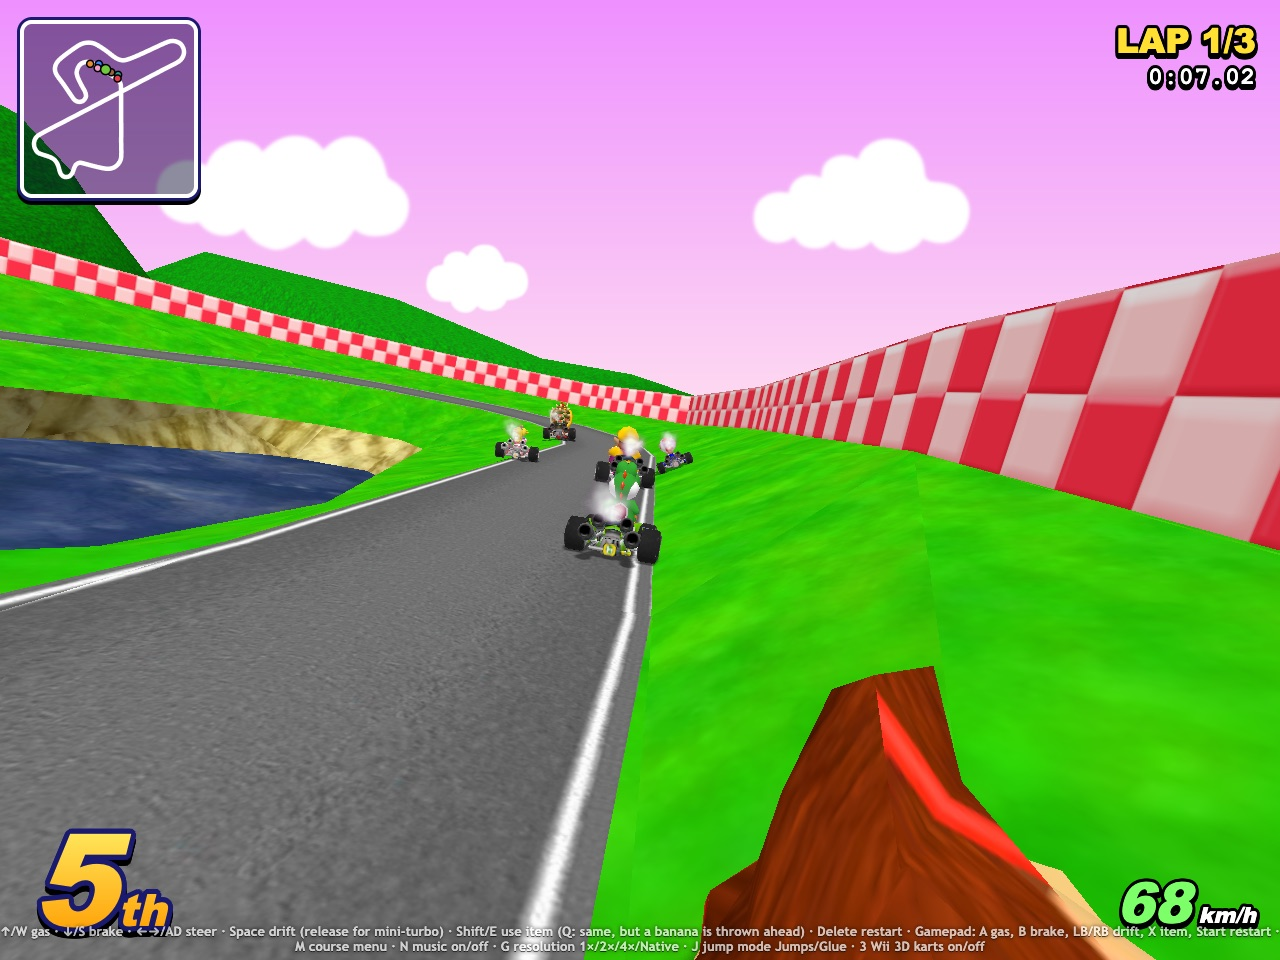
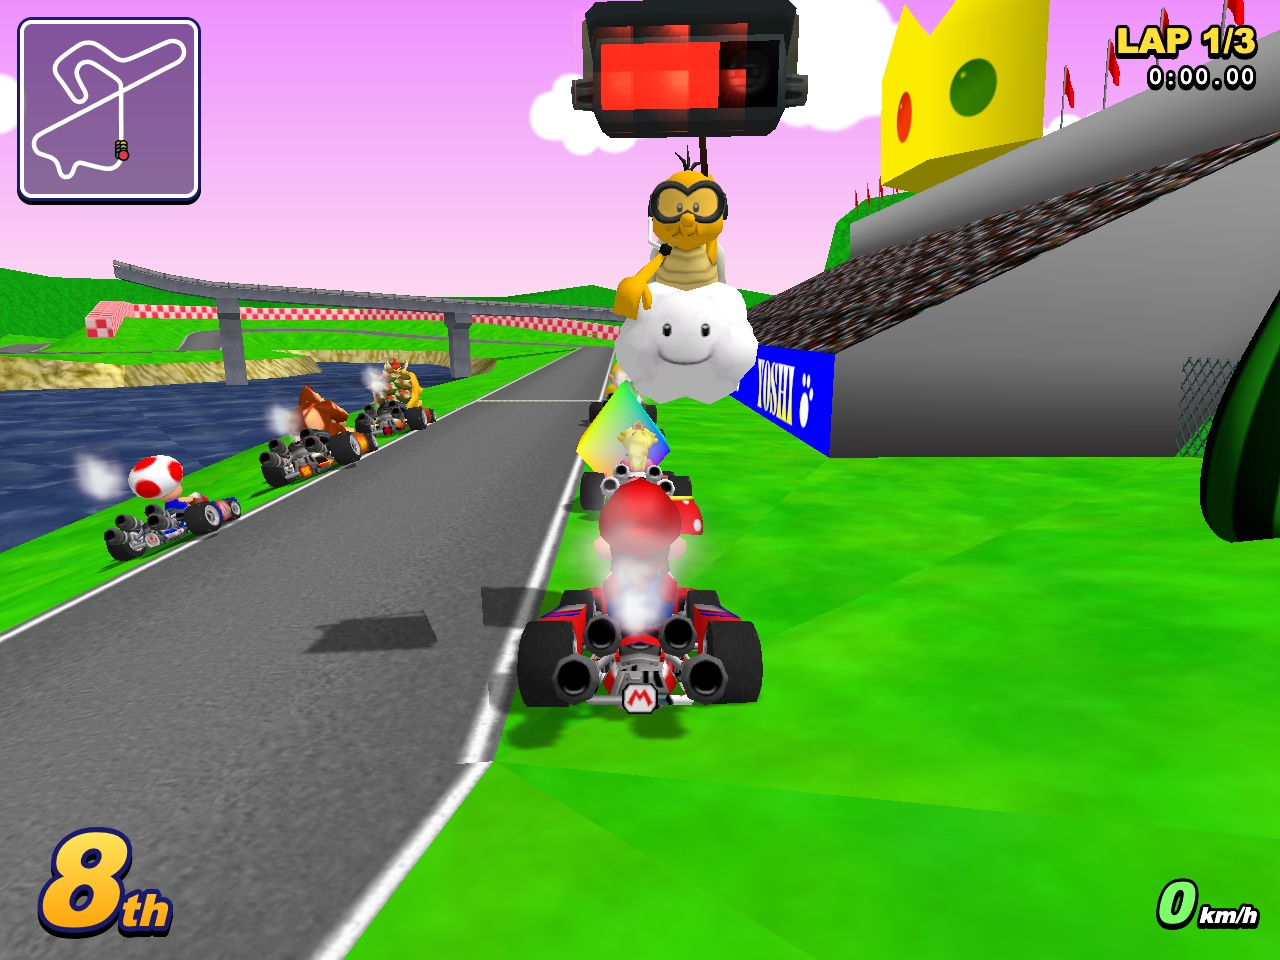
Website + README: Wii 3D karts section with 3D title screen, racing and finish fly-over screenshots

diff --git a/website/public/index.html b/website/public/index.html
@@ -31,7 +31,7 @@
 <link rel="canonical" href="https://mk64js.gokart.games/">
 <link rel="sitemap" type="application/xml" href="/sitemap.xml">
 <script type="application/ld+json">
-{"@context":"https://schema.org","@type":"VideoGame","name":"MarioKart64JS","url":"https://mk64js.gokart.games/","description":"A fan-made Mario Kart 64 rebuilt in JavaScript with Three.js, no emulator. All 16 courses, the original sequenced music, items and drifting, and online races for up to 4 players. Play in your browser or download it for macOS, Windows, Linux and Raspberry Pi.","genre":["Racing","Kart racing"],"gamePlatform":["Web browser","macOS","Windows","Linux","Raspberry Pi"],"operatingSystem":"Web browser, macOS, Windows, Linux, Raspberry Pi OS","applicationCategory":"Game","playMode":["SinglePlayer","MultiPlayer"],"numberOfPlayers":{"@type":"QuantitativeValue","minValue":1,"maxValue":4},"isAccessibleForFree":true,"offers":{"@type":"Offer","price":"0","priceCurrency":"USD","url":"https://mk64js.gokart.games/play"},"image":"https://mk64js.gokart.games/img/title.jpg","screenshot":["https://mk64js.gokart.games/img/title.jpg","https://mk64js.gokart.games/img/course-select.jpg","https://mk64js.gokart.games/img/character-select.jpg","https://mk64js.gokart.games/img/race-mario.jpg","https://mk64js.gokart.games/img/race-royal.jpg","https://mk64js.gokart.games/img/race-koopa.jpg","https://mk64js.gokart.games/img/race-bowser.jpg","https://mk64js.gokart.games/img/race-rainbow.jpg","https://mk64js.gokart.games/img/title3d.jpg","https://mk64js.gokart.games/img/race3d-mario.jpg"],"codeRepository":"https://github.com/AgentiLoop/MarioKart64JS","author":{"@type":"Organization","name":"AgentiLoop","url":"https://github.com/AgentiLoop"},"potentialAction":{"@type":"PlayAction","target":"https://mk64js.gokart.games/play"}}
+{"@context":"https://schema.org","@type":"VideoGame","name":"MarioKart64JS","url":"https://mk64js.gokart.games/","description":"A fan-made Mario Kart 64 rebuilt in JavaScript with Three.js, no emulator. All 16 courses, the original sequenced music, items and drifting, and online races for up to 4 players. Play in your browser or download it for macOS, Windows, Linux and Raspberry Pi.","genre":["Racing","Kart racing"],"gamePlatform":["Web browser","macOS","Windows","Linux","Raspberry Pi"],"operatingSystem":"Web browser, macOS, Windows, Linux, Raspberry Pi OS","applicationCategory":"Game","playMode":["SinglePlayer","MultiPlayer"],"numberOfPlayers":{"@type":"QuantitativeValue","minValue":1,"maxValue":4},"isAccessibleForFree":true,"offers":{"@type":"Offer","price":"0","priceCurrency":"USD","url":"https://mk64js.gokart.games/play"},"image":"https://mk64js.gokart.games/img/title.jpg","screenshot":["https://mk64js.gokart.games/img/title.jpg","https://mk64js.gokart.games/img/course-select.jpg","https://mk64js.gokart.games/img/character-select.jpg","https://mk64js.gokart.games/img/race-mario.jpg","https://mk64js.gokart.games/img/race-royal.jpg","https://mk64js.gokart.games/img/race-koopa.jpg","https://mk64js.gokart.games/img/race-bowser.jpg","https://mk64js.gokart.games/img/race-rainbow.jpg","https://mk64js.gokart.games/img/title3d.jpg","https://mk64js.gokart.games/img/race3d-mario.jpg","https://mk64js.gokart.games/img/race3d-koopa.jpg","https://mk64js.gokart.games/img/fly3d-orbit-mario.jpg"],"codeRepository":"https://github.com/AgentiLoop/MarioKart64JS","author":{"@type":"Organization","name":"AgentiLoop","url":"https://github.com/AgentiLoop"},"potentialAction":{"@type":"PlayAction","target":"https://mk64js.gokart.games/play"}}
 </script>
 <link rel="stylesheet" href="/style.css">
 </head>
@@ -41,6 +41,7 @@
   <a class="brand" href="#top"><img src="/icon.png?v=2" alt="" width="32" height="32"><span>MarioKart64JS</span></a>
   <nav>
     <a href="#features">Features</a>
+    <a href="#wii3d">3D karts</a>
     <a href="#courses">Courses</a>
     <a href="#controls">Controls</a>
     <a href="#build">Build it</a>
@@ -96,21 +97,39 @@
     <article class="card"><h3>Kart physics</h3><p>Karts ride the course surface in the track's frame and can't pass through walls. Ramps and crests send you airborne with the decomp's gravity and drag.</p></article>
     <article class="card"><h3>Drift &amp; mini-turbo</h3><p>Hold Space to power-slide, release for a mini-turbo. Exhaust smoke puffs are ported from the original particle code.</p></article>
     <article class="card"><h3>Items &amp; roulette</h3><p>Item boxes spawn where the original game puts them. Hit one and the item window spins through shells, bananas, mushrooms and the rest, at the original timing.</p></article>
-    <article class="card"><h3>Wii 3D karts</h3><p>Press 3 for 3D Wii-style karts and Lakitu with real shadows, and a 3D title screen, in place of the N64 sprites. Press 3 again to go back.</p></article>
+    <article class="card"><h3>Wii 3D karts</h3><p>Press 3 for 3D Wii-style karts and Lakitu with real shadows, a 3D title screen and 3D finish fly-overs, in place of the N64 sprites. Press 3 again to go back.</p></article>
     <article class="card"><h3>240p or HD</h3><p>Play at an N64-style 240 lines, or 2&times;, 4&times; and native resolution with optional HD textures from the MK64 Reloaded pack. Press G to cycle.</p></article>
   </div>
 </section>
 
 <section class="wrap" id="wii3d">
-  <h2>Press 3 for Wii 3D karts</h2>
-  <p class="sub">An alternative look: hit <kbd>3</kbd> on the title screen for a 3D title scene with Wii-style karts, and again for the original art. In a race, <kbd>3</kbd> swaps every kart (each driver in their own Standard Kart) and the referee Lakitu for 3D models with real shadows. Your choice is remembered for the next race.</p>
+  <h2>Wii 3D karts: press 3</h2>
+  <p class="sub">An alternative look, and yes, you can dig it. Hit <kbd>3</kbd> on the title screen and the N64 title becomes a 3D scene: Mario, Wario, Bowser, Peach and Toad in Wii-style Standard Karts driving at you down a scrolling road. Hit <kbd>3</kbd> again for the original art. In a race, <kbd>3</kbd> swaps every kart (each driver in their own Standard Kart) and the referee Lakitu for 3D models with real shadows. Your choice is remembered for the next race.</p>
+  <h3 class="gh">The 3D title screen</h3>
   <div class="gallery">
-    <a href="/img/title3d.jpg"><img src="/img/title3d.jpg" alt="3D title screen with Wii karts" loading="lazy"><span>3D title screen</span></a>
-    <a href="/img/game-select3d.jpg"><img src="/img/game-select3d.jpg" alt="Game select over the 3D title scene" loading="lazy"><span>Game select</span></a>
+    <a href="/img/title3d.jpg"><img src="/img/title3d.jpg" alt="3D title screen with five Wii karts driving at the camera" loading="lazy"><span>3D title screen</span></a>
+    <a href="/img/game-select3d.jpg"><img src="/img/game-select3d.jpg" alt="Game select over the 3D title scene" loading="lazy"><span>Game select over the 3D scene</span></a>
+  </div>
+  <h3 class="gh">Racing in 3D</h3>
+  <div class="gallery">
     <a href="/img/race3d-mario.jpg"><img src="/img/race3d-mario.jpg" alt="Driving a 3D Wii kart on Mario Raceway" loading="lazy"><span>Mario Raceway</span></a>
     <a href="/img/race3d-luigi.jpg"><img src="/img/race3d-luigi.jpg" alt="Driving a 3D Wii kart on Luigi Raceway" loading="lazy"><span>Luigi Raceway</span></a>
+    <a href="/img/race3d-koopa.jpg"><img src="/img/race3d-koopa.jpg" alt="Driving a 3D Wii kart on Koopa Troopa Beach" loading="lazy"><span>Koopa Troopa Beach</span></a>
     <a href="/img/race3d-royal.jpg"><img src="/img/race3d-royal.jpg" alt="Driving a 3D Wii kart on Royal Raceway" loading="lazy"><span>Royal Raceway</span></a>
+    <a href="/img/race3d-sherbet.jpg"><img src="/img/race3d-sherbet.jpg" alt="Driving a 3D Wii kart on Sherbet Land" loading="lazy"><span>Sherbet Land</span></a>
+    <a href="/img/race3d-dk.jpg"><img src="/img/race3d-dk.jpg" alt="Driving a 3D Wii kart on D.K.'s Jungle Parkway" loading="lazy"><span>D.K.'s Jungle Parkway</span></a>
     <a href="/img/race3d-bowser.jpg"><img src="/img/race3d-bowser.jpg" alt="Driving a 3D Wii kart on Bowser's Castle" loading="lazy"><span>Bowser's Castle</span></a>
+    <a href="/img/race3d-rainbow.jpg"><img src="/img/race3d-rainbow.jpg" alt="Driving a 3D Wii kart on Rainbow Road" loading="lazy"><span>Rainbow Road</span></a>
+  </div>
+  <h3 class="gh">Fly-overs after the finish</h3>
+  <p class="sub">Cross the line on the last lap and the camera takes over like the console's: it swings round the kart to its nose, cuts to roadside shots, a high crane and a low tail shot. With the Wii karts on, your 3D kart is the star of every one.</p>
+  <div class="gallery">
+    <a href="/img/fly3d-orbit-mario.jpg"><img src="/img/fly3d-orbit-mario.jpg" alt="Finish fly-over: the camera orbiting a 3D Wii kart on Mario Raceway" loading="lazy"><span>Orbit round the kart, Mario Raceway</span></a>
+    <a href="/img/fly3d-nose-mario.jpg"><img src="/img/fly3d-nose-mario.jpg" alt="Finish fly-over: head-on view of a 3D Wii kart on Mario Raceway" loading="lazy"><span>Head-on, Mario Raceway</span></a>
+    <a href="/img/fly3d-crane-mario.jpg"><img src="/img/fly3d-crane-mario.jpg" alt="Finish fly-over: high crane shot on Mario Raceway" loading="lazy"><span>High crane, Mario Raceway</span></a>
+    <a href="/img/fly3d-orbit-royal.jpg"><img src="/img/fly3d-orbit-royal.jpg" alt="Finish fly-over: the camera orbiting a 3D Wii kart on Royal Raceway" loading="lazy"><span>Orbit round the kart, Royal Raceway</span></a>
+    <a href="/img/fly3d-crane-royal.jpg"><img src="/img/fly3d-crane-royal.jpg" alt="Finish fly-over: high crane shot on Royal Raceway" loading="lazy"><span>High crane, Royal Raceway</span></a>
+    <a href="/img/fly3d-tail-royal.jpg"><img src="/img/fly3d-tail-royal.jpg" alt="Finish fly-over: low tail shot on Royal Raceway" loading="lazy"><span>Low tail shot, Royal Raceway</span></a>
   </div>
 </section>
 

diff --git a/website/public/style.css b/website/public/style.css
@@ -117,3 +117,5 @@ html{scroll-padding-top:120px}
 @media(max-width:800px){.bmb-sub{display:none}.bmb-banner{gap:10px;font-size:15px}.bmb-go{font-size:13px;padding:3px 9px}}
 @media(max-width:430px){.bmb-go{display:none}}
 @media(prefers-reduced-motion:reduce){.bmb-go{animation:none}}
+
+.gh{margin:40px 0 14px;font-size:20px}

diff --git a/README.md b/README.md
@@ -19,7 +19,6 @@ We built it as a test of how closely AI tools can recreate a classic game.
 | ![Koopa Troopa Beach](docs/screenshots/hires/race-koopa.jpg) | ![Sherbet Land](docs/screenshots/hires/race-sherbet.jpg) |
 | ![D.K.'s Jungle Parkway](docs/screenshots/hires/race-dk.jpg) | ![Bowser's Castle](docs/screenshots/hires/race-bowser.jpg) |
 | ![Banshee Boardwalk](docs/screenshots/hires/race-banshee.jpg) | ![Rainbow Road](docs/screenshots/hires/race-rainbow.jpg) |
-| ![3D title screen (3 key)](docs/screenshots/hires/title3d.jpg) | ![Wii 3D karts (3 key)](docs/screenshots/hires/race3d-mario.jpg) |
 
 ## What you can do
 
@@ -30,7 +29,41 @@ We built it as a test of how closely AI tools can recreate a classic game.
 - **Use all 15 items**, from bananas and shells to stars, Boos and lightning.
 - **Hear the original music and voices**, played from the game's own sound data.
 - **Watch the courses come alive:** the Moo Moo Farm cows, the Kalimari Desert trains, Toad's Turnpike traffic, the Bowser's Castle Thwomps, the Rainbow Road Chain Chomps and more.
+- **Switch to Wii 3D karts** with the 3 key: a 3D title screen, 3D Wii-style karts and Lakitu with real shadows, and 3D finish fly-overs. [See below.](#wii-3d-karts-press-3)
 - **Choose a look:** the original blurry 240p, or sharp HD textures up to full resolution.
+
+## Wii 3D karts (press 3)
+
+Press **3** on the title screen and the N64 title becomes a 3D scene: Mario, Wario, Bowser, Peach and Toad in Wii-style
+Standard Karts driving at you down a scrolling road. In a race, **3** swaps every kart (each driver in their own kart)
+and the referee Lakitu for 3D models with real shadows. Press **3** again to go back to the original art. Your choice is
+remembered for the next race.
+
+**3D title screen and game select**
+
+| | |
+|---|---|
+| ![3D title screen](docs/screenshots/hires/title3d.jpg) | ![Game select over the 3D scene](docs/screenshots/hires/game-select3d.jpg) |
+
+**Racing in 3D**
+
+| | |
+|---|---|
+| ![Mario Raceway](docs/screenshots/hires/race3d-mario.jpg) | ![Luigi Raceway](docs/screenshots/hires/race3d-luigi.jpg) |
+| ![Koopa Troopa Beach](docs/screenshots/hires/race3d-koopa.jpg) | ![Royal Raceway](docs/screenshots/hires/race3d-royal.jpg) |
+| ![Sherbet Land](docs/screenshots/hires/race3d-sherbet.jpg) | ![D.K.'s Jungle Parkway](docs/screenshots/hires/race3d-dk.jpg) |
+| ![Bowser's Castle](docs/screenshots/hires/race3d-bowser.jpg) | ![Rainbow Road](docs/screenshots/hires/race3d-rainbow.jpg) |
+
+**Fly-overs after the finish**
+
+Cross the line on the last lap and the camera swings round the kart to its nose, then cuts to roadside shots, a high crane and
+a low tail shot, as on the console. With the Wii karts on, they show your 3D kart.
+
+| | |
+|---|---|
+| ![Orbit round the kart, Mario Raceway](docs/screenshots/hires/fly3d-orbit-mario.jpg) | ![Head-on, Mario Raceway](docs/screenshots/hires/fly3d-nose-mario.jpg) |
+| ![High crane, Mario Raceway](docs/screenshots/hires/fly3d-crane-mario.jpg) | ![Orbit round the kart, Royal Raceway](docs/screenshots/hires/fly3d-orbit-royal.jpg) |
+| ![High crane, Royal Raceway](docs/screenshots/hires/fly3d-crane-royal.jpg) | ![Low tail shot, Royal Raceway](docs/screenshots/hires/fly3d-tail-royal.jpg) |
 
 ## Controls
 
